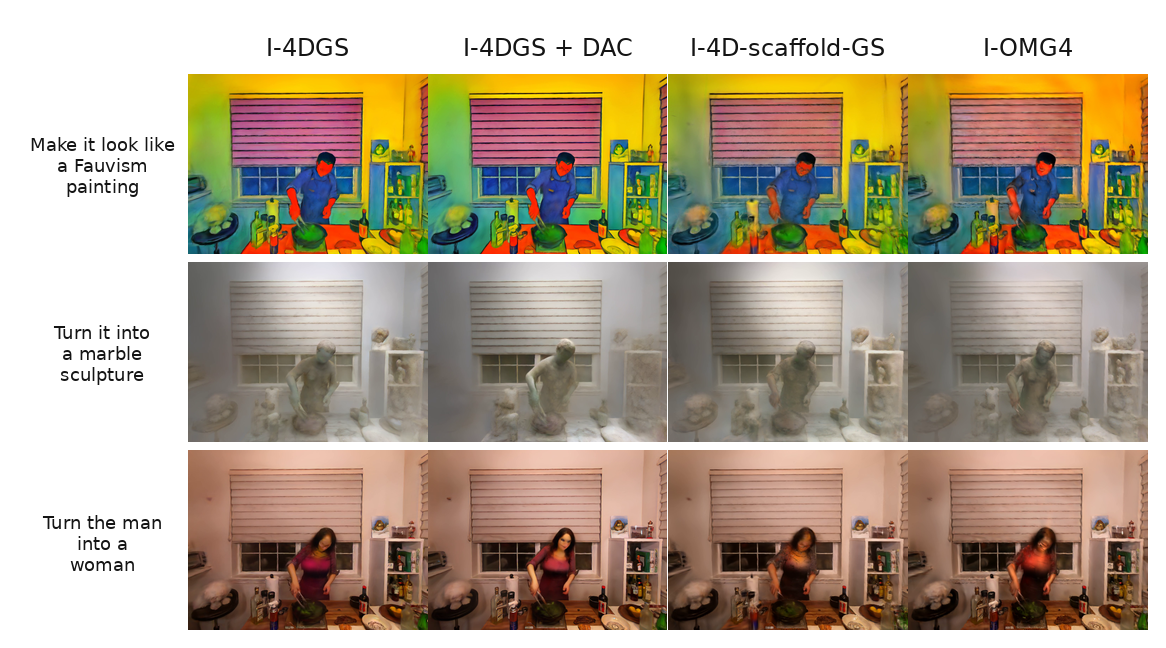
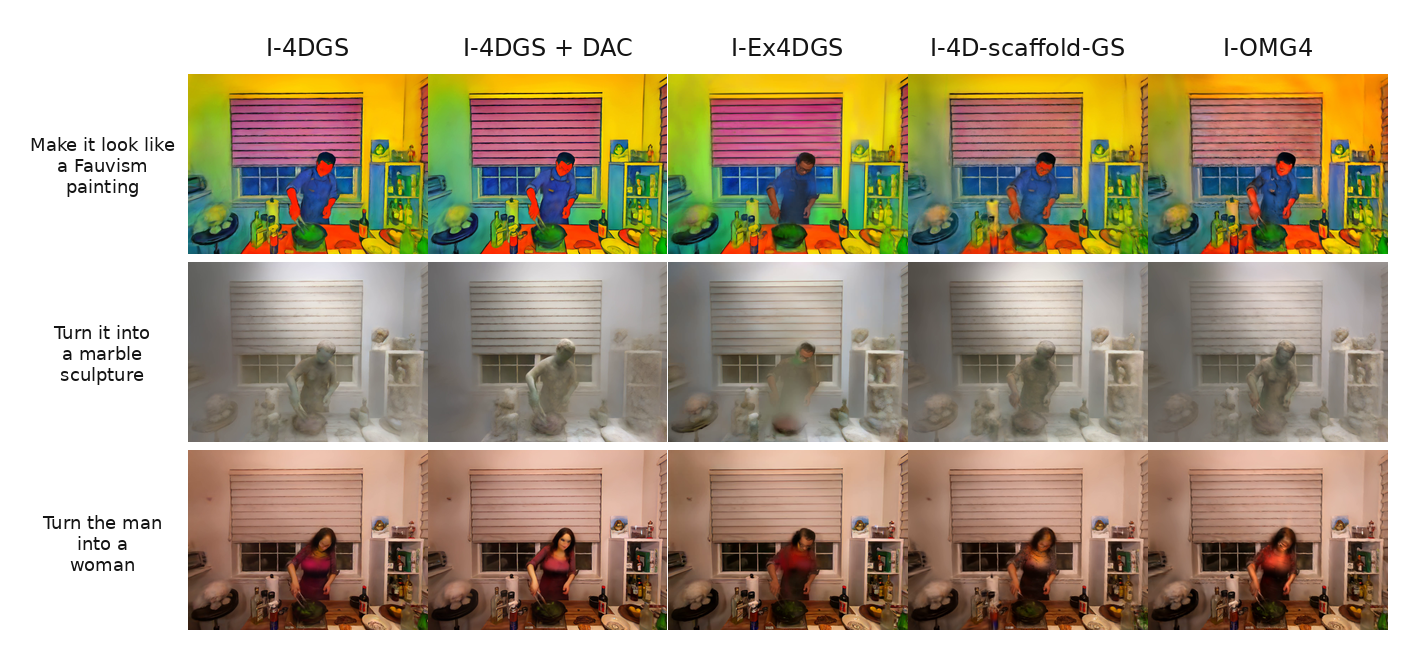
assets

diff --git a/README.md b/README.md
@@ -72,14 +72,15 @@ python render_edited4d.py --configs ./arguments/dynerf/cook_spinach.py --ply_pat
 
 # Other 4dgs backbones
 
-[4d scafflod gs](https://github.com/jason-jasom/4dfgs-instruct)
+[4d-scafflod-GS](https://github.com/jason-jasom/4dfgs-instruct)
 
 [OMG4](https://github.com/jason-jasom/OMG4-Instruct)
 
 [4DGS + DAC](https://github.com/felixhungsv/Instruct-4DGS-MEGA)
 
+[Ex4DGS]()
 
-# Quantitative Results  
+# Quantitative Results
 
 ![table](assets/table.png)
 
